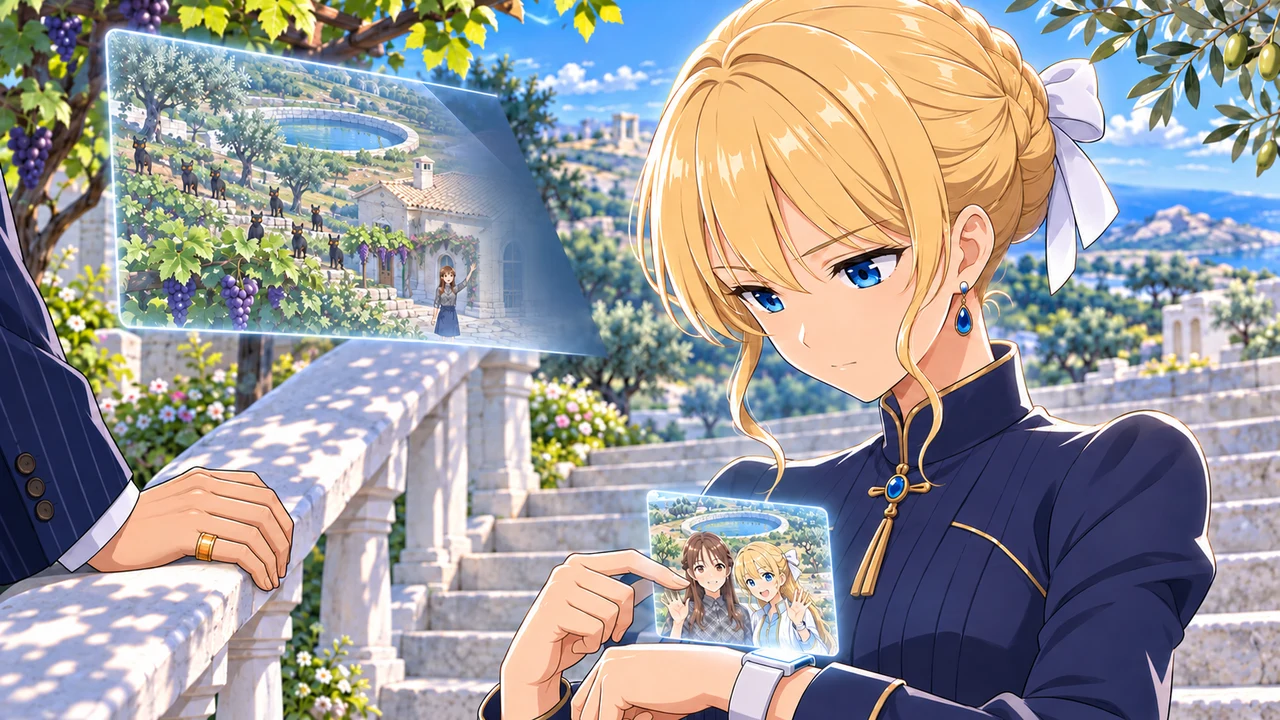
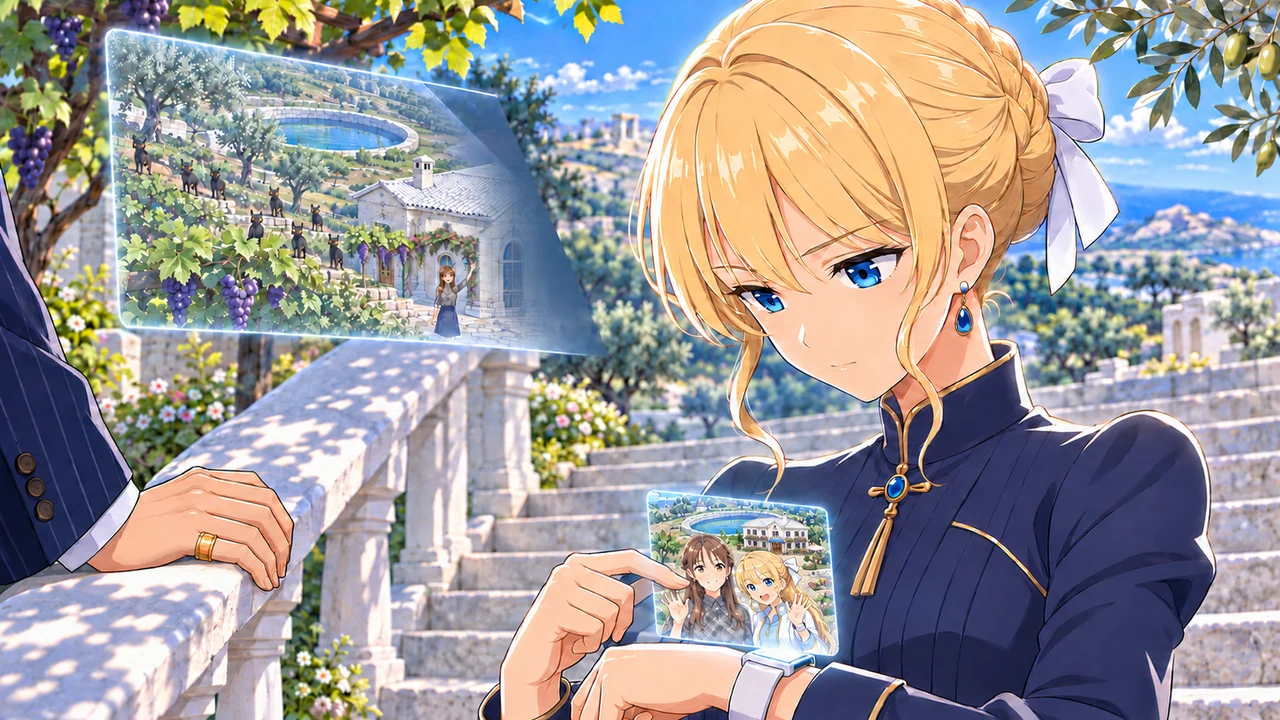
テリオン: 15〜17話の場面絵19枚(Codex作画)を台詞ごとに組みこみ(計115枚)
Claude-Session: https://claude.ai/code/session_01GpeKDhxNssKAGTgsZyP1St

diff --git a/proto/world_v2/proto/greece_town.html b/proto/world_v2/proto/greece_town.html
@@ -5318,7 +5318,7 @@ const GAME_CUT_STALE=[];
       // 2026-11-20 オーナー「会話のときの画像、場面場面で適切な画像に」: 2話は Codex の本編カット(勝負の映像/7_第2話/作画_Codex_20261110/03_本編カット)を台詞ごとに
       const EP2BG={"g02_01": [["口から水の柱", "anime_ep2c_S0_02e"], ["その向こうで、二本", "anime_ep2c_S0_03e"]], "g02_02": [["その前の日", "anime_ep2c_S1_01"], ["エリーが、パンと", "anime_ep2c_S1_02"], ["見張ってたんだよ", "anime_ep2c_S1_03"], ["フォルン、起き上がる", "anime_ep2c_S1_05e"], ["……ほんとに、焦がした", "anime_ep2c_S1_06e"], ["エリー！　お客さん", "anime_ep2a_S1_08"]], "g02_03": [["ロビー。古い", "anime_ep2a_S3_01"], ["エリーの長い髪", "anime_ep2c_S3_03"], ["うわっ！　なんだ", "anime_ep2c_S3_04"], ["ずっといたよ", "anime_ep2c_S3_05"], ["寝てる時は", "anime_ep2c_S3_07"], ["指先が、毛に", "anime_ep2c_S3_09e"], ["ヤマトの髪の毛", "anime_ep2c_S3_10e"], ["（カウンターから", "anime_ep2c_S3_11"], ["……ちょっとだけ", "anime_ep2c_S3_12"], ["画面に赤い枠", "anime_ep2c_S3_13"], ["（画面の黒い車", "anime_ep2a_S3_14"], ["じゃあ、おれがフォルン", "anime_ep2c_S3_16"], ["相棒は、テリオン", "anime_ep2a_S3_17"], ["それ出る", "anime_ep2a_S3_23"], ["その前に、おばあちゃん", "anime_ep2c_S3_25"], ["パン屋の羽の子", "anime_ep2a_S3_15"]], "g02_04": [["段々のオリーブ", "anime_ep2c_S4_01"], ["フォルン、池のふち", "anime_ep2c_S4_02"], ["池の向こう", "anime_ep2c_S4_04"], ["フォルンの耳が", "anime_ep2c_S4_05e"]], "g02_05": [["丘の向こうの、小さな", "anime_ep2c_S5_01"], ["おばあちゃーん", "anime_ep2c_S5_02"], ["あらまあ", "anime_ep2c_S5_03"], ["おばあさんの目が", "anime_ep2c_S5_04"], ["狐にかまれたの", "anime_ep2c_S5_05"], ["棚の写真", "anime_ep2c_S5_07"], ["若いころさ", "anime_ep2c_S5_20"], ["その前に、化石から", "anime_ep2c_S5_06"], ["だから、わたしが", "anime_ep2c_S5_10"], ["じゃあ、きのうのやつら", "anime_ep2c_S5_15"], ["おばあさん、エリーの手を", "anime_ep2c_S5_10"], ["ヤマト、くしゃくしゃ", "anime_ep2c_S5_08e"], ["……エリー。一緒に", "anime_ep2c_S5_09"], ["うん！　行ってくる", "anime_ep2c_S5_10"], ["ありがと", "anime_ep2c_S5_11"], ["（窓にはりついて）", "anime_ep2c_S5_14"], ["あしたの夜、森の道", "anime_ep2c_S5_15"], ["……古い形の時計", "anime_ep2c_S5_18"]], "g02_06": [["丘の上。若い男", "anime_ep2c_S6_01"], ["男の手首の画面", "anime_ep2c_S6_02"], ["画面のすみに、少年", "anime_ep2c_S6_04"], ["運ぶのは", "anime_ep2c_S6_03"], ["急ぎなら", "anime_ep2c_S6_05"], ["アレク、望遠鏡", "anime_ep2c_S6_06"]], "g02_08": [["エリーの手首の画面が", "anime_ep2c_S8_01"], ["ヤマト、土手の下", "anime_ep2c_S8_02"], ["今度は、開く", "anime_ep2c_S8_03"], ["ヤマト、アイコンを", "anime_ep2c_S8_04e"], ["手首の画面から光", "anime_ep2c_S8_05e"], ["この真下", "anime_ep2c_S8_06"], ["……ちょっと、中を", "anime_ep2c_S8_09"]], "g02_09": [["競技場の、真下", "anime_ep2c_S9_01"], ["つきあたりに", "anime_ep2c_S9_02"], ["……これ、古い", "anime_ep2c_S9_03"], ["エリー、文字を", "anime_ep2c_S9_05"], ["……足の下の", "anime_ep2c_S9_06"], ["ヤマト、扉に手", "anime_ep2c_S9_08"], ["通路のずっとうしろ", "anime_ep2c_S9_09"], ["フォルンが、ヤマトと扉", "anime_ep2c_S9_10"], ["フォルンが怒って", "anime_ep2c_S9_11"]], "g02_07": [["次の日。", "anime_ep2c_S7_01"]]};
       const EP3BG={"g03_01": [["同じ日の夕方", "anime_ep3c_0_1"], ["小川の中を", "anime_ep3c_0_2"], ["手首の画面が、ぶるっと", "anime_ep3c_0_4"], ["アレク。日が落ちたら", "anime_ep3c_0_6"], ["……男の子も", "anime_ep3c_0_5"], ["理由は、お前の", "anime_ep3c_0_6e"], ["そのワニ、こちらで", "anime_ep3c_0_7"], ["……運べ", "anime_ep3c_0_7e"], ["ワニの子が、男のひざ", "anime_ep3c_0_8"]], "g03_02": [["その夜。", "anime_ep3c_1_1"], ["……先、行ってる", "anime_ep3c_1_3"], ["裏口の戸が", "anime_ep3c_1_4"], ["……エリー、脇に", "anime_ep3c_1_5"], ["アナさんに言わなくて", "anime_ep3c_1_7"], ["お姉ちゃんには、あした", "anime_ep3c_1_8"]], "g03_03": [["ぶどう畑を抜けた", "anime_ep3c_2_1"], ["光る板のまわり", "anime_ep3c_2_3"], ["エリー、スプレー", "anime_ep3c_2_3e"], ["フォルンだけは", "anime_ep3c_2_4"], ["ヤマト、顔を上げて", "anime_ep3c_2_8"], ["……また、お前かよ", "anime_ep3c_2_5"], ["夕方から、ずっと", "anime_ep3c_2_7"], ["……望遠鏡で", "anime_ep3c_2_6"], ["星って、どの星", "anime_ep3c_2_9"], ["なんだよ、それ。教えて", "anime_ep3c_2_10"]], "g03_04": [["その狐、こっちに", "anime_ep3c_3_1"], ["で、昼の「用事」", "anime_ep3c_3_6"], ["まだ運ぶなって", "anime_ep3c_3_2"], ["……やっぱり、昼の電話", "anime_ep3c_3_4"], ["（画面を消して）", "anime_ep3c_3_3"], ["エリーまで連れて", "anime_ep3c_3_12"], ["うるさいな", "anime_ep3c_3_7"], ["その子も、そのお仕事", "anime_ep3c_3_10"], ["こいつは関係ない", "anime_ep3c_3_9"], ["……じゃあ、関係ある", "anime_ep3c_3_11"], ["ねえ、その子、なんか変", "anime_ep3c_3_8"], ["名前は、おれに勝てたら", "anime_ep3c_3_11e"]], "g03_05": [["右を、小川が", "anime_ep3c_4_2e"], ["男、ワニの子を", "anime_ep3c_4_2"], ["火花が、石を伝って", "anime_ep3c_4_4e"], ["ピリポン、びっくり", "anime_ep3c_4_5"], ["ピリポン。こわかったら", "anime_ep3c_4_6"], ["ピリポン、エリーの腕", "anime_ep3c_4_6e"], ["二体で来い", "anime_ep3c_4_8"], ["ピリポンは、かくれて", "anime_ep3c_4_7"], ["じゃあ、それでいい", "anime_ep3c_4_9"], ["フォルン、根もとだ", "anime_ep3c_4_10"], ["……始めるか", "anime_ep3c_4_10e"]], "g03_07": [["ヤマト、両手のこぶし", "anime_ep3c_6_1"], ["ピリポン、すごいよ", "anime_ep3c_6_2"], ["アレク、ひっくり返った", "anime_ep3c_6_3"], ["耳のうしろのうろこ", "anime_ep3c_6_4"], ["その黒いの、なに", "anime_ep3c_6_5"], ["ヤマト、小川へ走る", "anime_ep3c_6_6"], ["お前、何してんだよ", "anime_ep3c_6_6e"], ["かわいてんじゃん", "anime_ep3c_6_7"], ["三回目の水が", "anime_ep3c_6_9"], ["……勝ったぞ。約束", "anime_ep3c_6_10"], ["仕事をやめたわけじゃ", "anime_ep3c_6_10e"], ["アレク、ぐったり", "anime_ep3c_6_11"], ["あるよ！　ぶどう畑", "anime_ep3c_6_11e"]], "g03_08": [["夜ふけ。坂の上", "anime_ep3c_7_1"], ["白い都まで行くつもり", "anime_ep3c_7_5"], ["道なら、おれが", "anime_ep3c_7_7"], ["……案内も、有料", "anime_ep3c_7_10"], ["こいつは、おれと大会", "anime_ep3c_7_6"], ["（ワニの子に）約束", "anime_ep3c_7_8"], ["こいつの名前は", "anime_ep3c_7_9"], ["……道、知らねえしな", "anime_ep3c_7_7"], ["（一段低い声で）……実は僕", "anime_ep3c_7_14"], ["エリーの肩で寝ていた", "anime_ep3c_7_15"], ["アレク、自分の手首", "anime_ep3c_7_17e"]], "g03_09": [["ヤマトの部屋", "anime_ep3c_8_2"], ["フォルン、音を立てず", "anime_ep3c_8_3"], ["リュックの上に乗る", "anime_ep3c_8_4e"], ["ヤマト、ベッドから", "anime_ep3c_8_6"], ["ぺしっ", "anime_ep3c_8_6e"], ["（小声で）……ちぇっ", "anime_ep3c_8_8"]], "g03_10": [["ぶどう畑のはしの道具小屋", "anime_ep3c_9_1"], ["アレクの手首の画面", "anime_ep3c_9_2"], ["アレク、ホテルの一階", "anime_ep3c_9_3"], ["森には、だれも", "anime_ep3c_9_4"], ["アレク、ポケットから", "anime_ep3c_9_5"], ["水おけの中で", "anime_ep3c_9_6"]]};   // 3話は PixAI の原画(勝負の映像/9_第3話/作画_PixAI・原画台帳.csv の採用版)
-      Object.assign(EP2BG,EP3BG); /*EP4BG_START*/ Object.assign(EP2BG,{"g04_01": [["坂のとちゅうに、黒塗り", "anime_ep04g_01"]], "g04_02": [["坂の上のホテル。四日目", "anime_ep04g_02"]], "g04_03": [["でさ、相手、川からばしゃー", "anime_ep04g_03"], ["残ったのは、短い前髪と", "anime_ep04g_04"]], "g04_04": [["門の外に、マルコ。", "anime_ep04g_05"]], "g04_09": [["アレク、用水路の湯気を見た", "anime_ep04g_06"]], "g04_10": [["アレクがうしろに来る。", "anime_ep04g_07"], ["ロビーの奥から、エリーが", "anime_ep04g_08"]], "g04_11": [["窓のない暗い部屋。", "anime_ep04g_09"]], "g05_01": [["オリーヴァ村を出た三人は", "anime_ep05g_01"]], "g05_02": [["オリーヴァ村の東。オリーブ", "anime_ep05g_02"]], "g05_03": [["この丘のいちばん上に、", "anime_ep05g_03"], ["……ヴィクターのチップだな。", "anime_ep05g_04"]], "g05_08": [["昼。千年のオリーブの下。", "anime_ep05g_05"], ["ヤニスの手首の画面が、短く", "anime_ep05g_06"], ["アレク、腕の中のクロッコの", "anime_ep05g_07"]], "g05_09": [["夕方。三人は、畑の向こうの", "anime_ep05g_08"]], "g06_01": [["五日目の昼。アルカディアの", "anime_ep06g_01"]], "g06_03": [["虎の子を追って、煙の中から", "anime_ep06g_02"]], "g06_05": [["……お前も、回すのか。", "anime_ep06g_03"]], "g06_06": [["森の裏がわの、舗装された", "anime_ep06g_04"]], "g06_07": [["ラドン川。この秋は、夜に", "anime_ep06g_05"]], "g06_08": [["白い小さな観光船。だれも", "anime_ep06g_06"]], "g06_09": [["歌が聞こえてくる。", "anime_ep06g_07"]], "g06_10": [["最後の船着き場。", "anime_ep06g_08"], ["……こんな夜ふけに、何の用？", "anime_ep06g_09"]], "g07_01": [["森の外れの発掘場。三人は", "anime_ep07g_01"]], "g07_02": [["シートの下は、赤土の大きな", "anime_ep07g_02"]], "g07_03": [["子どもたちが、日なたのフォルン", "anime_ep07g_03"]], "g07_04": [["ヤマト、子どもたちのあいだを", "anime_ep07g_04"]], "g07_06": [["……型は、無事。あの子、強", "anime_ep07g_05"]], "g07_07": [["光る板の下のテーブル。", "anime_ep07g_06"]], "g07_08": [["夜ふけ。みんな寝ている。", "anime_ep07g_07"], ["……まだ見てんのか。", "anime_ep07g_08"], ["ヤマト、ばんそうこうの指で、", "anime_ep07g_09"]], "g08_01": [["森の道が開いた朝。三人は、", "anime_ep08g_01"]], "g08_02": [["坂の下の小さな村。", "anime_ep08g_02"], ["エリー、黄色のニット。", "anime_ep08g_03"]], "g08_03": [["エリー、ゆっくりまばたきする。", "anime_ep08g_04"]], "g08_04": [["えっとね……「大きなけもの", "anime_ep08g_05"]], "g08_06": [["森のふち。ベルクマが、木の", "anime_ep08g_06"]], "g08_07": [["夜。小屋の前の石段。", "anime_ep08g_07"], ["フォルン、ヤマトのひざに前足を", "anime_ep08g_08"]], "g08_08": [["明かりを落とした広い部屋。", "anime_ep08g_09"]], "g09_01": [["ぶどう小屋を出て、二日目の朝。", "anime_ep09g_01"]], "g09_02": [["そこへ、小さな舟がすうっと", "anime_ep09g_02"]], "g09_03": [["その夕方。三人は、マリナの", "anime_ep09g_03"]], "g09_04": [["月のない海。", "anime_ep09g_04"], ["右舷のすぐ横に、黒い船体が、", "anime_ep09g_05"]], "g09_06": [["三体の光が引き、もとの姿へ。", "anime_ep09g_06"]], "g09_07": [["夜明け。小雨はやんでいる。", "anime_ep09g_07"], ["首に灰色のタオル。", "anime_ep09g_08"]], "g10_01": [["夜の海をこえて、マリナの船は", "anime_ep10g_01"]], "g10_02": [["白い都。昔の石の町に、", "anime_ep10g_02"]], "g10_03": [["坂の上がひらける。", "anime_ep10g_03"]], "g10_04": [["満員の客席。", "anime_ep10g_04"], ["アレク、パーカーのポケットから", "anime_ep10g_05"]], "g10_05": [["ヤマトのうしろ、裏の門が開く。", "anime_ep10g_06"]], "g10_07": [["狐のお兄ちゃん、サインちょうだい！", "anime_ep10g_07"], ["融合！", "anime_ep10g_08"]], "g10_08": [["控え室の戸口に、チャコールの", "anime_ep10g_09"]], "g11_01": [["大会の二日目。三人は、アレクが", "anime_ep11g_01"], ["（早口で）……貴様、おれのジュース", "anime_ep11g_02"]], "g11_02": [["すれちがいざま、カマコロがハオの", "anime_ep11g_03"]], "g11_03": [["競技場のまん中。", "anime_ep11g_04"]], "g11_05": [["エルレオンの光がほどけて、", "anime_ep11g_05"], ["竹の森に来たら、案内します。", "anime_ep11g_06"]], "g11_06": [["通路の壁の大きな空中の画面。", "anime_ep11g_07"], ["通路の向こうから、レンが一人で", "anime_ep11g_08"]], "g12_01": [["決勝の前の夜。", "anime_ep12g_01"], ["部屋。明かりを落とした中。", "anime_ep12g_02"]], "g12_03": [["向こうの入口から、レンが一人で", "anime_ep12g_03"]], "g12_05": [["光が引いて、フォルンに。", "anime_ep12g_04"]], "g12_06": [["下ろしたままのヤマトの手のひらに、", "anime_ep12g_05"]], "g12_07": [["貴賓席から、チャコールのストライプ", "anime_ep12g_06"]], "g12_09": [["貴賓席のうしろの小部屋。", "anime_ep12g_07"]], "g12_10": [["その夜。白い都の屋台の町は、", "anime_ep12g_08"]], "g13_01": [["大会が終わった夜。港のそばの", "anime_ep13g_01"]], "g13_02": [["エリー、からのカップを返しに、", "anime_ep13g_02"]], "g13_03": [["屋台の机。机の上で丸くなって", "anime_ep13g_03"], ["細い道の奥。", "anime_ep13g_04"]], "g13_04": [["屋台の明かりが、背中の方に", "anime_ep13g_05"]], "g13_06": [["甲板のへりに、エリー。ゼノの手を", "anime_ep13g_06"]], "g13_07": [["安い宿の部屋。", "anime_ep13g_07"]], "g13_08": [["アレク、窓ぎわに立っている。", "anime_ep13g_08"]], "g13_09": [["同じ夜。白い都から遠く離れた、", "anime_ep13g_09"]], "g14_01": [["エリーのいない朝。二人は", "anime_ep14g_01"]], "g14_03": [["丘の上に、石の獅子が二頭", "anime_ep14g_02"]], "g14_04": [["屋敷の奥のテラス。", "anime_ep14g_03"]], "g14_05": [["階段の上に、カシアが立って", "anime_ep14g_04"], ["ヴィクター、エリーと同じ段", "anime_ep14g_05"], ["ヴィクター、指を一度だけ動かす", "anime_ep14g_10"], ["……エリー。ほんとに、いい", "anime_ep14g_06"]], "g14_06": [["門の外。うしろで、ゼノが", "anime_ep14g_07"]], "g14_07": [["古い木の下に、銀色のうすい", "anime_ep14g_08"]], "g14_08": [["同じ夜。屋敷の、地下。", "anime_ep14g_09"]]}); /*EP4BG_END*/ /* 2026-11-21 オーナー「提案通り」: 17話S10 ミノタスがヤマトの足もとに頭を下ろす(台本にあるが、決着のトが無く抜き出しで落ちていた) */ if(typeof GR_BT!=="undefined"&&GR_BT[17]&&!(GR_BT[17].post||[]).length) GR_BT[17].post=[{w:null,t:"グレンダイルの光がほどけて、フォルンとクロッコに戻る。二匹とも、その場にへたりこむ。"},{w:null,t:"へたりこんだフォルンの耳が、横になったミノタスの方へ向く。"},{w:null,t:"ミノタス、目をあけたまま、ゆっくり首を上げる。焦げた角のまま、床を這ってくる。"},{w:null,t:"ヤマトの前で止まる。大きな頭を、ヤマトの足もとに下ろす。鼻の金の輪が、床に当たって、ちりん。"},{w:null,t:"ヤマト、少し迷って、黒い角に手をのせる。手首の画面が、ぽうっと一度だけ光る。"},{w:null,t:"ミノタス、ヤマトの足もとで、そのまま目を閉じる。長い寝息。"},{w:null,t:"ヤマトとアレク、同じ方を見ている。エリーの連れていかれた、奥の通路。"}];
+      Object.assign(EP2BG,EP3BG); /*EP4BG_START*/ Object.assign(EP2BG,{"g04_01": [["坂のとちゅうに、黒塗り", "anime_ep04g_01"]], "g04_02": [["坂の上のホテル。四日目", "anime_ep04g_02"]], "g04_03": [["でさ、相手、川からばしゃー", "anime_ep04g_03"], ["残ったのは、短い前髪と", "anime_ep04g_04"]], "g04_04": [["門の外に、マルコ。", "anime_ep04g_05"]], "g04_09": [["アレク、用水路の湯気を見た", "anime_ep04g_06"]], "g04_10": [["アレクがうしろに来る。", "anime_ep04g_07"], ["ロビーの奥から、エリーが", "anime_ep04g_08"]], "g04_11": [["窓のない暗い部屋。", "anime_ep04g_09"]], "g05_01": [["オリーヴァ村を出た三人は", "anime_ep05g_01"]], "g05_02": [["オリーヴァ村の東。オリーブ", "anime_ep05g_02"]], "g05_03": [["この丘のいちばん上に、", "anime_ep05g_03"], ["……ヴィクターのチップだな。", "anime_ep05g_04"]], "g05_08": [["昼。千年のオリーブの下。", "anime_ep05g_05"], ["ヤニスの手首の画面が、短く", "anime_ep05g_06"], ["アレク、腕の中のクロッコの", "anime_ep05g_07"]], "g05_09": [["夕方。三人は、畑の向こうの", "anime_ep05g_08"]], "g06_01": [["五日目の昼。アルカディアの", "anime_ep06g_01"]], "g06_03": [["虎の子を追って、煙の中から", "anime_ep06g_02"]], "g06_05": [["……お前も、回すのか。", "anime_ep06g_03"]], "g06_06": [["森の裏がわの、舗装された", "anime_ep06g_04"]], "g06_07": [["ラドン川。この秋は、夜に", "anime_ep06g_05"]], "g06_08": [["白い小さな観光船。だれも", "anime_ep06g_06"]], "g06_09": [["歌が聞こえてくる。", "anime_ep06g_07"]], "g06_10": [["最後の船着き場。", "anime_ep06g_08"], ["……こんな夜ふけに、何の用？", "anime_ep06g_09"]], "g07_01": [["森の外れの発掘場。三人は", "anime_ep07g_01"]], "g07_02": [["シートの下は、赤土の大きな", "anime_ep07g_02"]], "g07_03": [["子どもたちが、日なたのフォルン", "anime_ep07g_03"]], "g07_04": [["ヤマト、子どもたちのあいだを", "anime_ep07g_04"]], "g07_06": [["……型は、無事。あの子、強", "anime_ep07g_05"]], "g07_07": [["光る板の下のテーブル。", "anime_ep07g_06"]], "g07_08": [["夜ふけ。みんな寝ている。", "anime_ep07g_07"], ["……まだ見てんのか。", "anime_ep07g_08"], ["ヤマト、ばんそうこうの指で、", "anime_ep07g_09"]], "g08_01": [["森の道が開いた朝。三人は、", "anime_ep08g_01"]], "g08_02": [["坂の下の小さな村。", "anime_ep08g_02"], ["エリー、黄色のニット。", "anime_ep08g_03"]], "g08_03": [["エリー、ゆっくりまばたきする。", "anime_ep08g_04"]], "g08_04": [["えっとね……「大きなけもの", "anime_ep08g_05"]], "g08_06": [["森のふち。ベルクマが、木の", "anime_ep08g_06"]], "g08_07": [["夜。小屋の前の石段。", "anime_ep08g_07"], ["フォルン、ヤマトのひざに前足を", "anime_ep08g_08"]], "g08_08": [["明かりを落とした広い部屋。", "anime_ep08g_09"]], "g09_01": [["ぶどう小屋を出て、二日目の朝。", "anime_ep09g_01"]], "g09_02": [["そこへ、小さな舟がすうっと", "anime_ep09g_02"]], "g09_03": [["その夕方。三人は、マリナの", "anime_ep09g_03"]], "g09_04": [["月のない海。", "anime_ep09g_04"], ["右舷のすぐ横に、黒い船体が、", "anime_ep09g_05"]], "g09_06": [["三体の光が引き、もとの姿へ。", "anime_ep09g_06"]], "g09_07": [["夜明け。小雨はやんでいる。", "anime_ep09g_07"], ["首に灰色のタオル。", "anime_ep09g_08"]], "g10_01": [["夜の海をこえて、マリナの船は", "anime_ep10g_01"]], "g10_02": [["白い都。昔の石の町に、", "anime_ep10g_02"]], "g10_03": [["坂の上がひらける。", "anime_ep10g_03"]], "g10_04": [["満員の客席。", "anime_ep10g_04"], ["アレク、パーカーのポケットから", "anime_ep10g_05"]], "g10_05": [["ヤマトのうしろ、裏の門が開く。", "anime_ep10g_06"]], "g10_07": [["狐のお兄ちゃん、サインちょうだい！", "anime_ep10g_07"], ["融合！", "anime_ep10g_08"]], "g10_08": [["控え室の戸口に、チャコールの", "anime_ep10g_09"]], "g11_01": [["大会の二日目。三人は、アレクが", "anime_ep11g_01"], ["（早口で）……貴様、おれのジュース", "anime_ep11g_02"]], "g11_02": [["すれちがいざま、カマコロがハオの", "anime_ep11g_03"]], "g11_03": [["競技場のまん中。", "anime_ep11g_04"]], "g11_05": [["エルレオンの光がほどけて、", "anime_ep11g_05"], ["竹の森に来たら、案内します。", "anime_ep11g_06"]], "g11_06": [["通路の壁の大きな空中の画面。", "anime_ep11g_07"], ["通路の向こうから、レンが一人で", "anime_ep11g_08"]], "g12_01": [["決勝の前の夜。", "anime_ep12g_01"], ["部屋。明かりを落とした中。", "anime_ep12g_02"]], "g12_03": [["向こうの入口から、レンが一人で", "anime_ep12g_03"]], "g12_05": [["光が引いて、フォルンに。", "anime_ep12g_04"]], "g12_06": [["下ろしたままのヤマトの手のひらに、", "anime_ep12g_05"]], "g12_07": [["貴賓席から、チャコールのストライプ", "anime_ep12g_06"]], "g12_09": [["貴賓席のうしろの小部屋。", "anime_ep12g_07"]], "g12_10": [["その夜。白い都の屋台の町は、", "anime_ep12g_08"]], "g13_01": [["大会が終わった夜。港のそばの", "anime_ep13g_01"]], "g13_02": [["エリー、からのカップを返しに、", "anime_ep13g_02"]], "g13_03": [["屋台の机。机の上で丸くなって", "anime_ep13g_03"], ["細い道の奥。", "anime_ep13g_04"]], "g13_04": [["屋台の明かりが、背中の方に", "anime_ep13g_05"]], "g13_06": [["甲板のへりに、エリー。ゼノの手を", "anime_ep13g_06"]], "g13_07": [["安い宿の部屋。", "anime_ep13g_07"]], "g13_08": [["アレク、窓ぎわに立っている。", "anime_ep13g_08"]], "g13_09": [["同じ夜。白い都から遠く離れた、", "anime_ep13g_09"]], "g14_01": [["エリーのいない朝。二人は", "anime_ep14g_01"]], "g14_03": [["丘の上に、石の獅子が二頭", "anime_ep14g_02"]], "g14_04": [["屋敷の奥のテラス。", "anime_ep14g_03"]], "g14_05": [["階段の上に、カシアが立って", "anime_ep14g_04"], ["ヴィクター、エリーと同じ段", "anime_ep14g_05"], ["ヴィクター、指を一度だけ動かす", "anime_ep14g_10"], ["……エリー。ほんとに、いい", "anime_ep14g_06"]], "g14_06": [["門の外。うしろで、ゼノが", "anime_ep14g_07"]], "g14_07": [["古い木の下に、銀色のうすい", "anime_ep14g_08"]], "g14_08": [["同じ夜。屋敷の、地下。", "anime_ep14g_09"]], "g15_01": [["オリーブの木の横。", "anime_ep15g_01"], ["町を南北にまっすぐ走る運河", "anime_ep15g_02"]], "g15_02": [["ヤマト、車から降りて、机の", "anime_ep15g_03"]], "g15_04": [["橋の手前の、運河ぞいの石", "anime_ep15g_04"]], "g15_06": [["その狐も、言うことを聞く", "anime_ep15g_05"]], "g15_09": [["その夜。獅子門の丘の屋敷。", "anime_ep15g_06"], ["屋敷の地下。", "anime_ep15g_07"]], "g15_10": [["山あいの暗い道。", "anime_ep15g_08"], ["エリー、手首の白い画面に、", "anime_ep15g_09"]], "g16_01": [["獅子門の丘の屋敷。", "anime_ep16g_01"]], "g16_02": [["大理石の谷。山がまるごと", "anime_ep16g_02"]], "g16_03": [["粉が、ヤマトの髪に積もる。", "anime_ep16g_03"]], "g16_05": [["ヤマト、グリフォの羽のつけ根", "anime_ep16g_04"], ["グリフォ、ヤマトのひざの横に", "anime_ep16g_05"]], "g16_06": [["保管庫の前。ヤマト、谷の", "anime_ep16g_06"]], "g16_07": [["その夜。山の中腹の、岩かげ", "anime_ep16g_07"]], "g16_08": [["獅子門の丘の屋敷。", "anime_ep16g_08"]], "g17_01": [["山の向こう。古い迷宮の", "anime_ep17g_01"], ["扉に手を当てろ。それだけで", "anime_ep17g_02"]]}); /*EP4BG_END*/ /* 2026-11-21 オーナー「提案通り」: 17話S10 ミノタスがヤマトの足もとに頭を下ろす(台本にあるが、決着のトが無く抜き出しで落ちていた) */ if(typeof GR_BT!=="undefined"&&GR_BT[17]&&!(GR_BT[17].post||[]).length) GR_BT[17].post=[{w:null,t:"グレンダイルの光がほどけて、フォルンとクロッコに戻る。二匹とも、その場にへたりこむ。"},{w:null,t:"へたりこんだフォルンの耳が、横になったミノタスの方へ向く。"},{w:null,t:"ミノタス、目をあけたまま、ゆっくり首を上げる。焦げた角のまま、床を這ってくる。"},{w:null,t:"ヤマトの前で止まる。大きな頭を、ヤマトの足もとに下ろす。鼻の金の輪が、床に当たって、ちりん。"},{w:null,t:"ヤマト、少し迷って、黒い角に手をのせる。手首の画面が、ぽうっと一度だけ光る。"},{w:null,t:"ミノタス、ヤマトの足もとで、そのまま目を閉じる。長い寝息。"},{w:null,t:"ヤマトとアレク、同じ方を見ている。エリーの連れていかれた、奥の通路。"}];
       window._bgMiss=[]; for(const k in EP2BG){ const L=EP2BG[k]; if(typeof GR_BG!=='undefined'&&L[0]) GR_BG[k]=L[0][1]; for(const [h,b] of L){ const x=(GR_SC[k]||[]).find(y=>y&&y.t&&y.t.startsWith(h)); if(x) x.bg=b; else window._bgMiss.push(k+':'+h); } } setBg('g01_05','……って、ちょっと','anime_ep1n_bandage');
       setBg('g01_12','そう、アナ','anime_ep1n_door'); setBg('g01_12','ヤマト、図鑑','anime_ep1n_room'); setBg('g01_12','手首の画面のすみ','anime_ep1n_watch'); setBg('g01_12','窓の外。','anime_ep1n_window'); setBg('g01_12','エリー、ちょっと見て','anime_ep1n_door'); }
     if(window.GR_REBUILD) window.GR_REBUILD();
